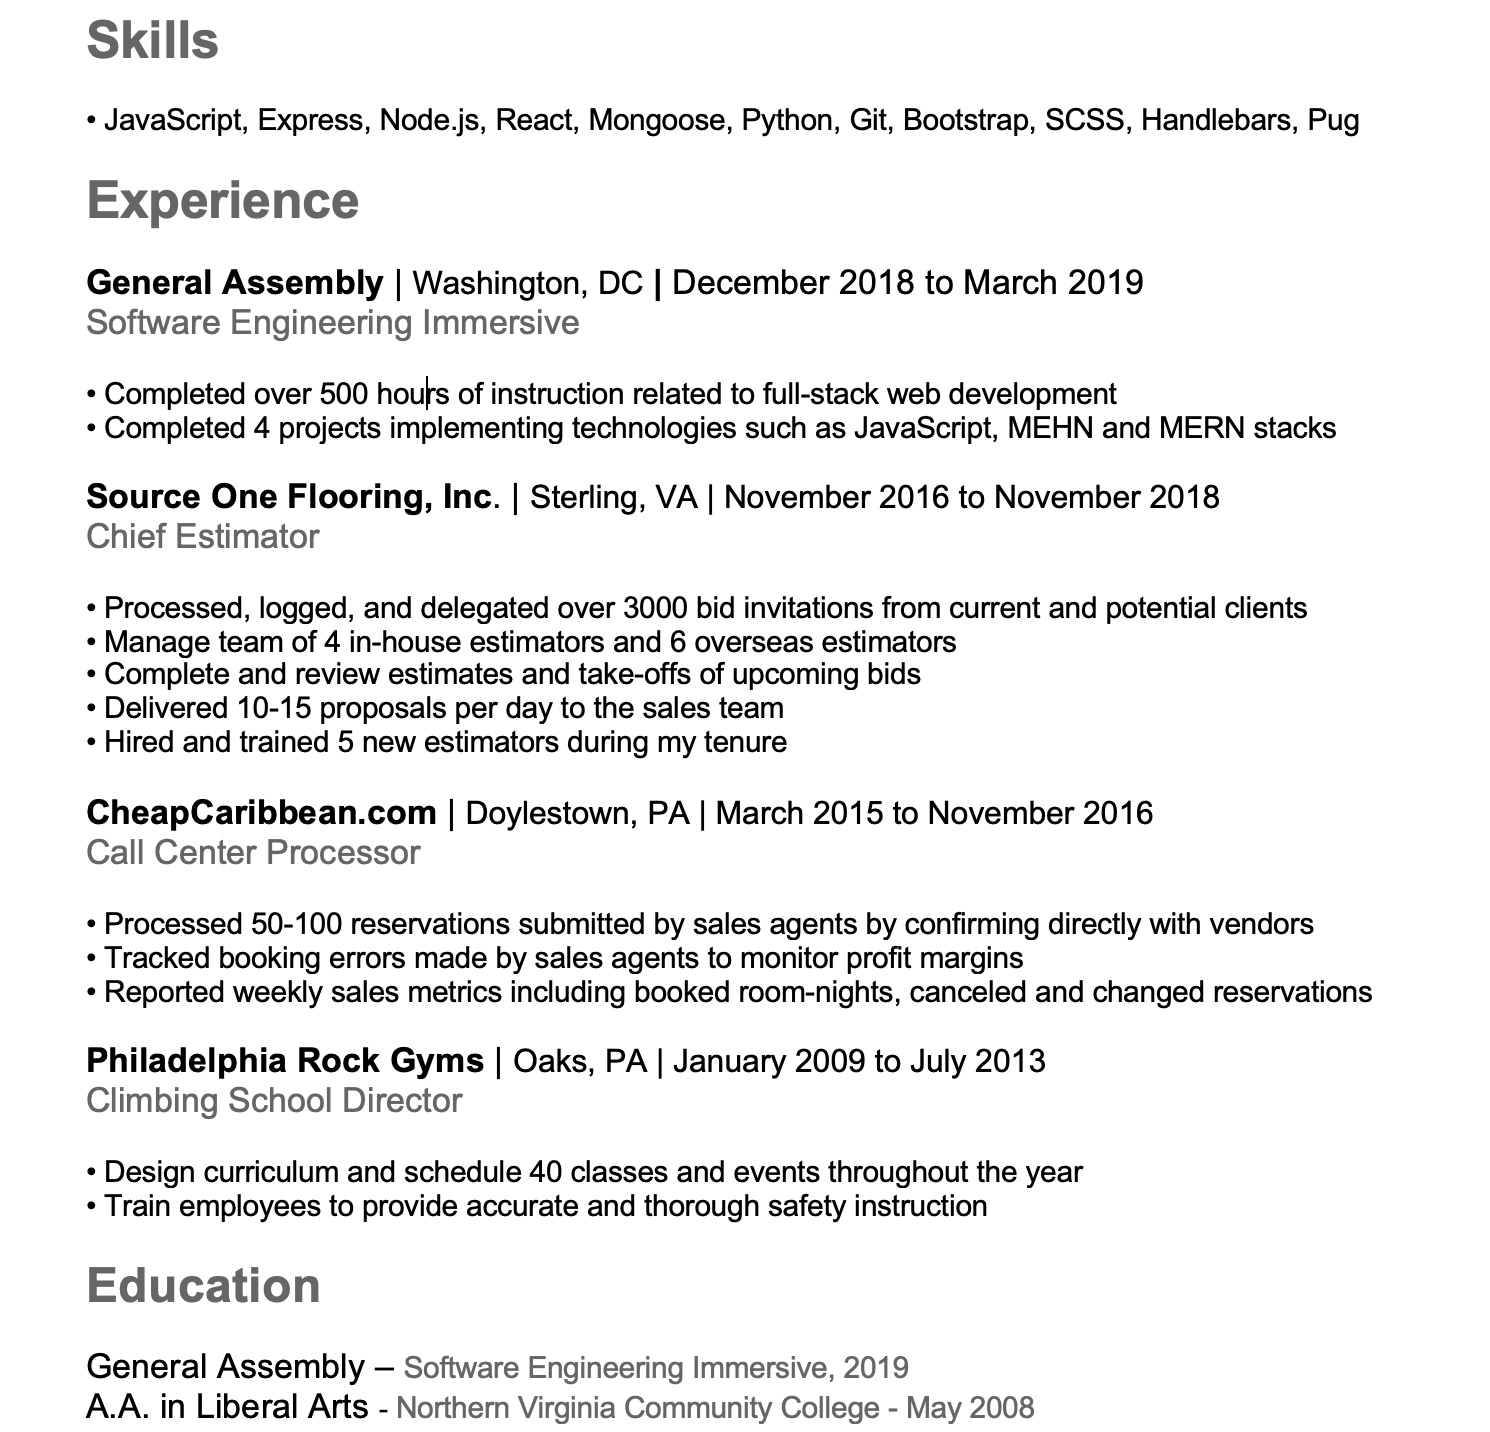
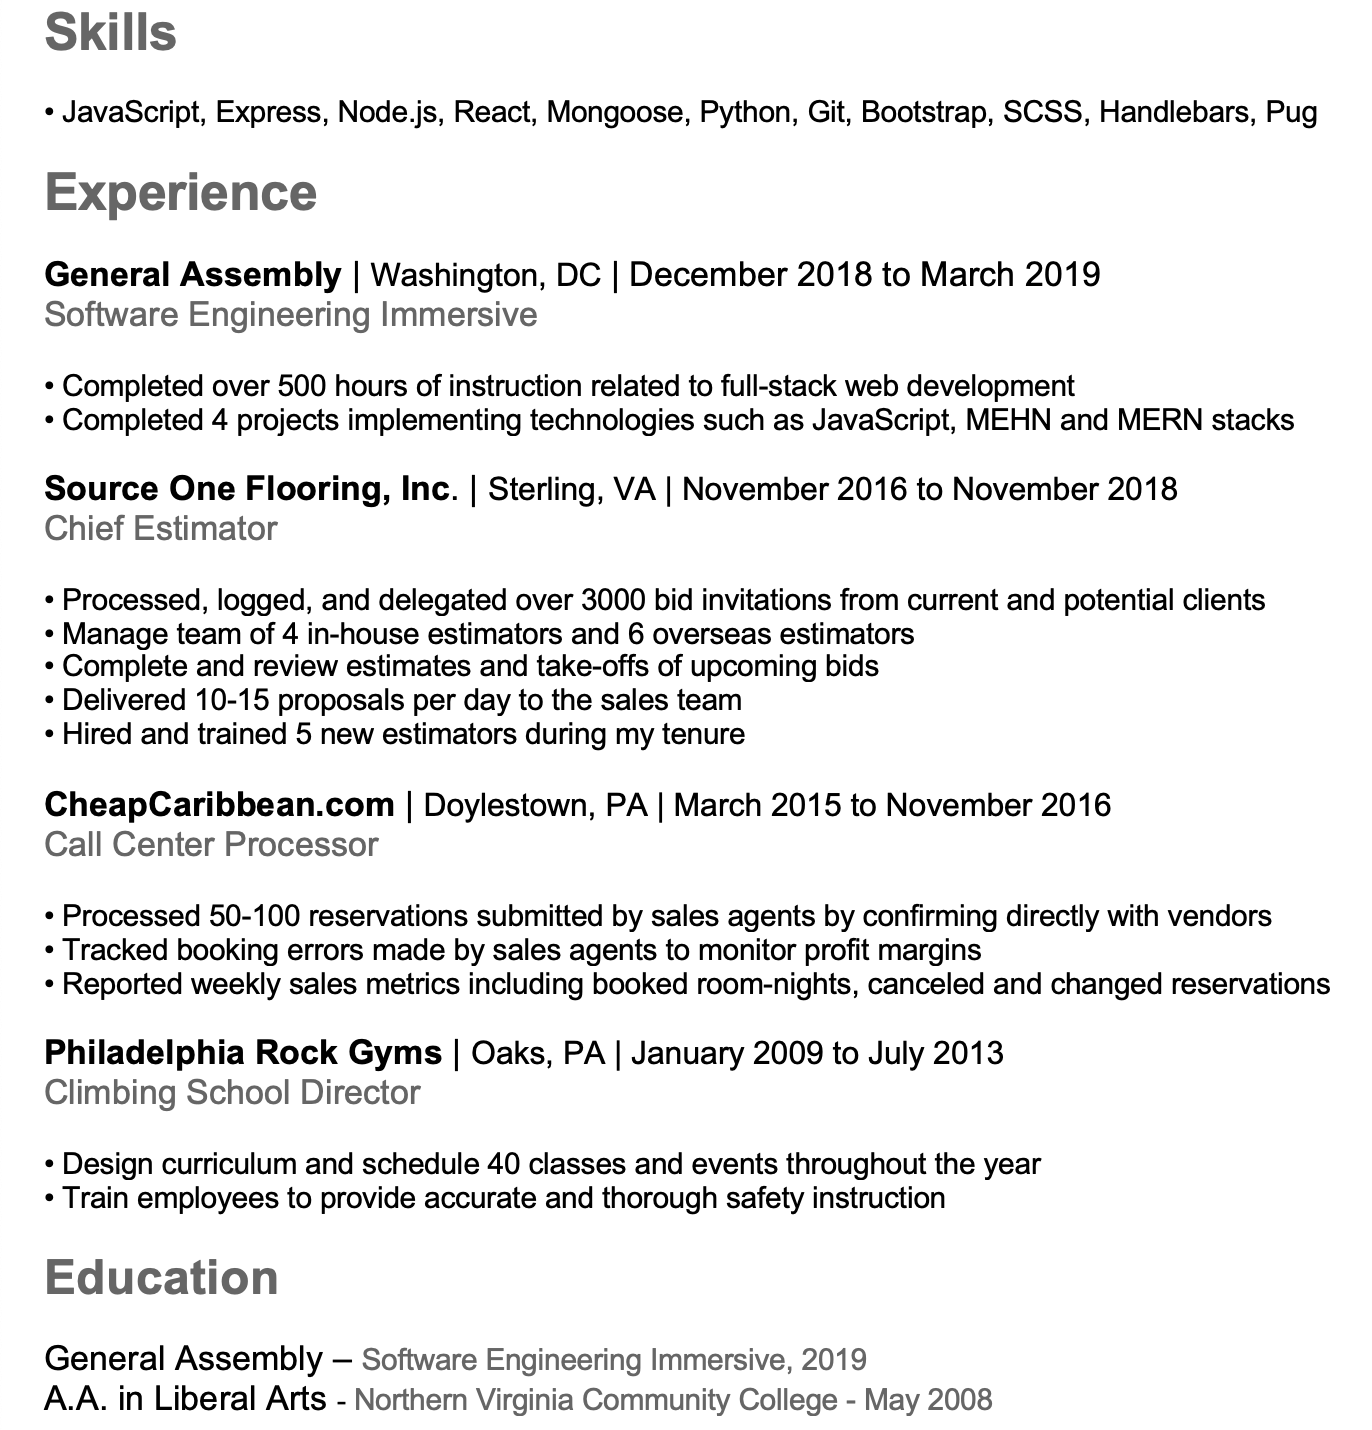
reset resume size, changed contact me to contact

diff --git a/resume.html b/resume.html
@@ -11,8 +11,9 @@
 
   <header class="small"> Jake Brackney
     <nav>
-      <a class='nav-link' href= "portfolio.html">Portfolio</a>
-		  <a class='nav-link' href= "contact.html">Contact Me</a>
+      <a class='nav-link' href="index.html">Home</a>
+      <a class='nav-link' href="portfolio.html">Portfolio</a>
+		  <a class='nav-link' href="contact.html">Contact</a>
     </nav>
   </header>
 

diff --git a/index.html b/index.html
@@ -12,7 +12,7 @@
   <header class="small"> Jake Brackney
     <nav>
       <a class='nav-link' href= "portfolio.html">Portfolio</a>
-		  <a class='nav-link' href= "contact.html">Contact Me</a>
+		  <a class='nav-link' href= "contact.html">Contact</a>
     </nav>
   </header>
   

diff --git a/portfolio.html b/portfolio.html
@@ -13,7 +13,7 @@
   <header class="small">Works by Jake
     <nav>
       <a class='nav-link' href="index.html">Home</a>
-      <a class='nav-link' href="contact.html">Contact Me</a>
+      <a class='nav-link' href="contact.html">Contact</a>
     </nav>
   </header>
 

diff --git a/style.css b/style.css
@@ -69,6 +69,7 @@ h2 {
 
 .resume-image {
 	display: inline-block;
+	max-width: 50%
 }
 
 .brand {
@@ -144,7 +145,7 @@ p {
 		display: inline-block
 	}
 	.resume-image {
-		max-width: 80%
+		max-width: 100%
 	}
 	.contact-me {
 		font-size: 18px;
